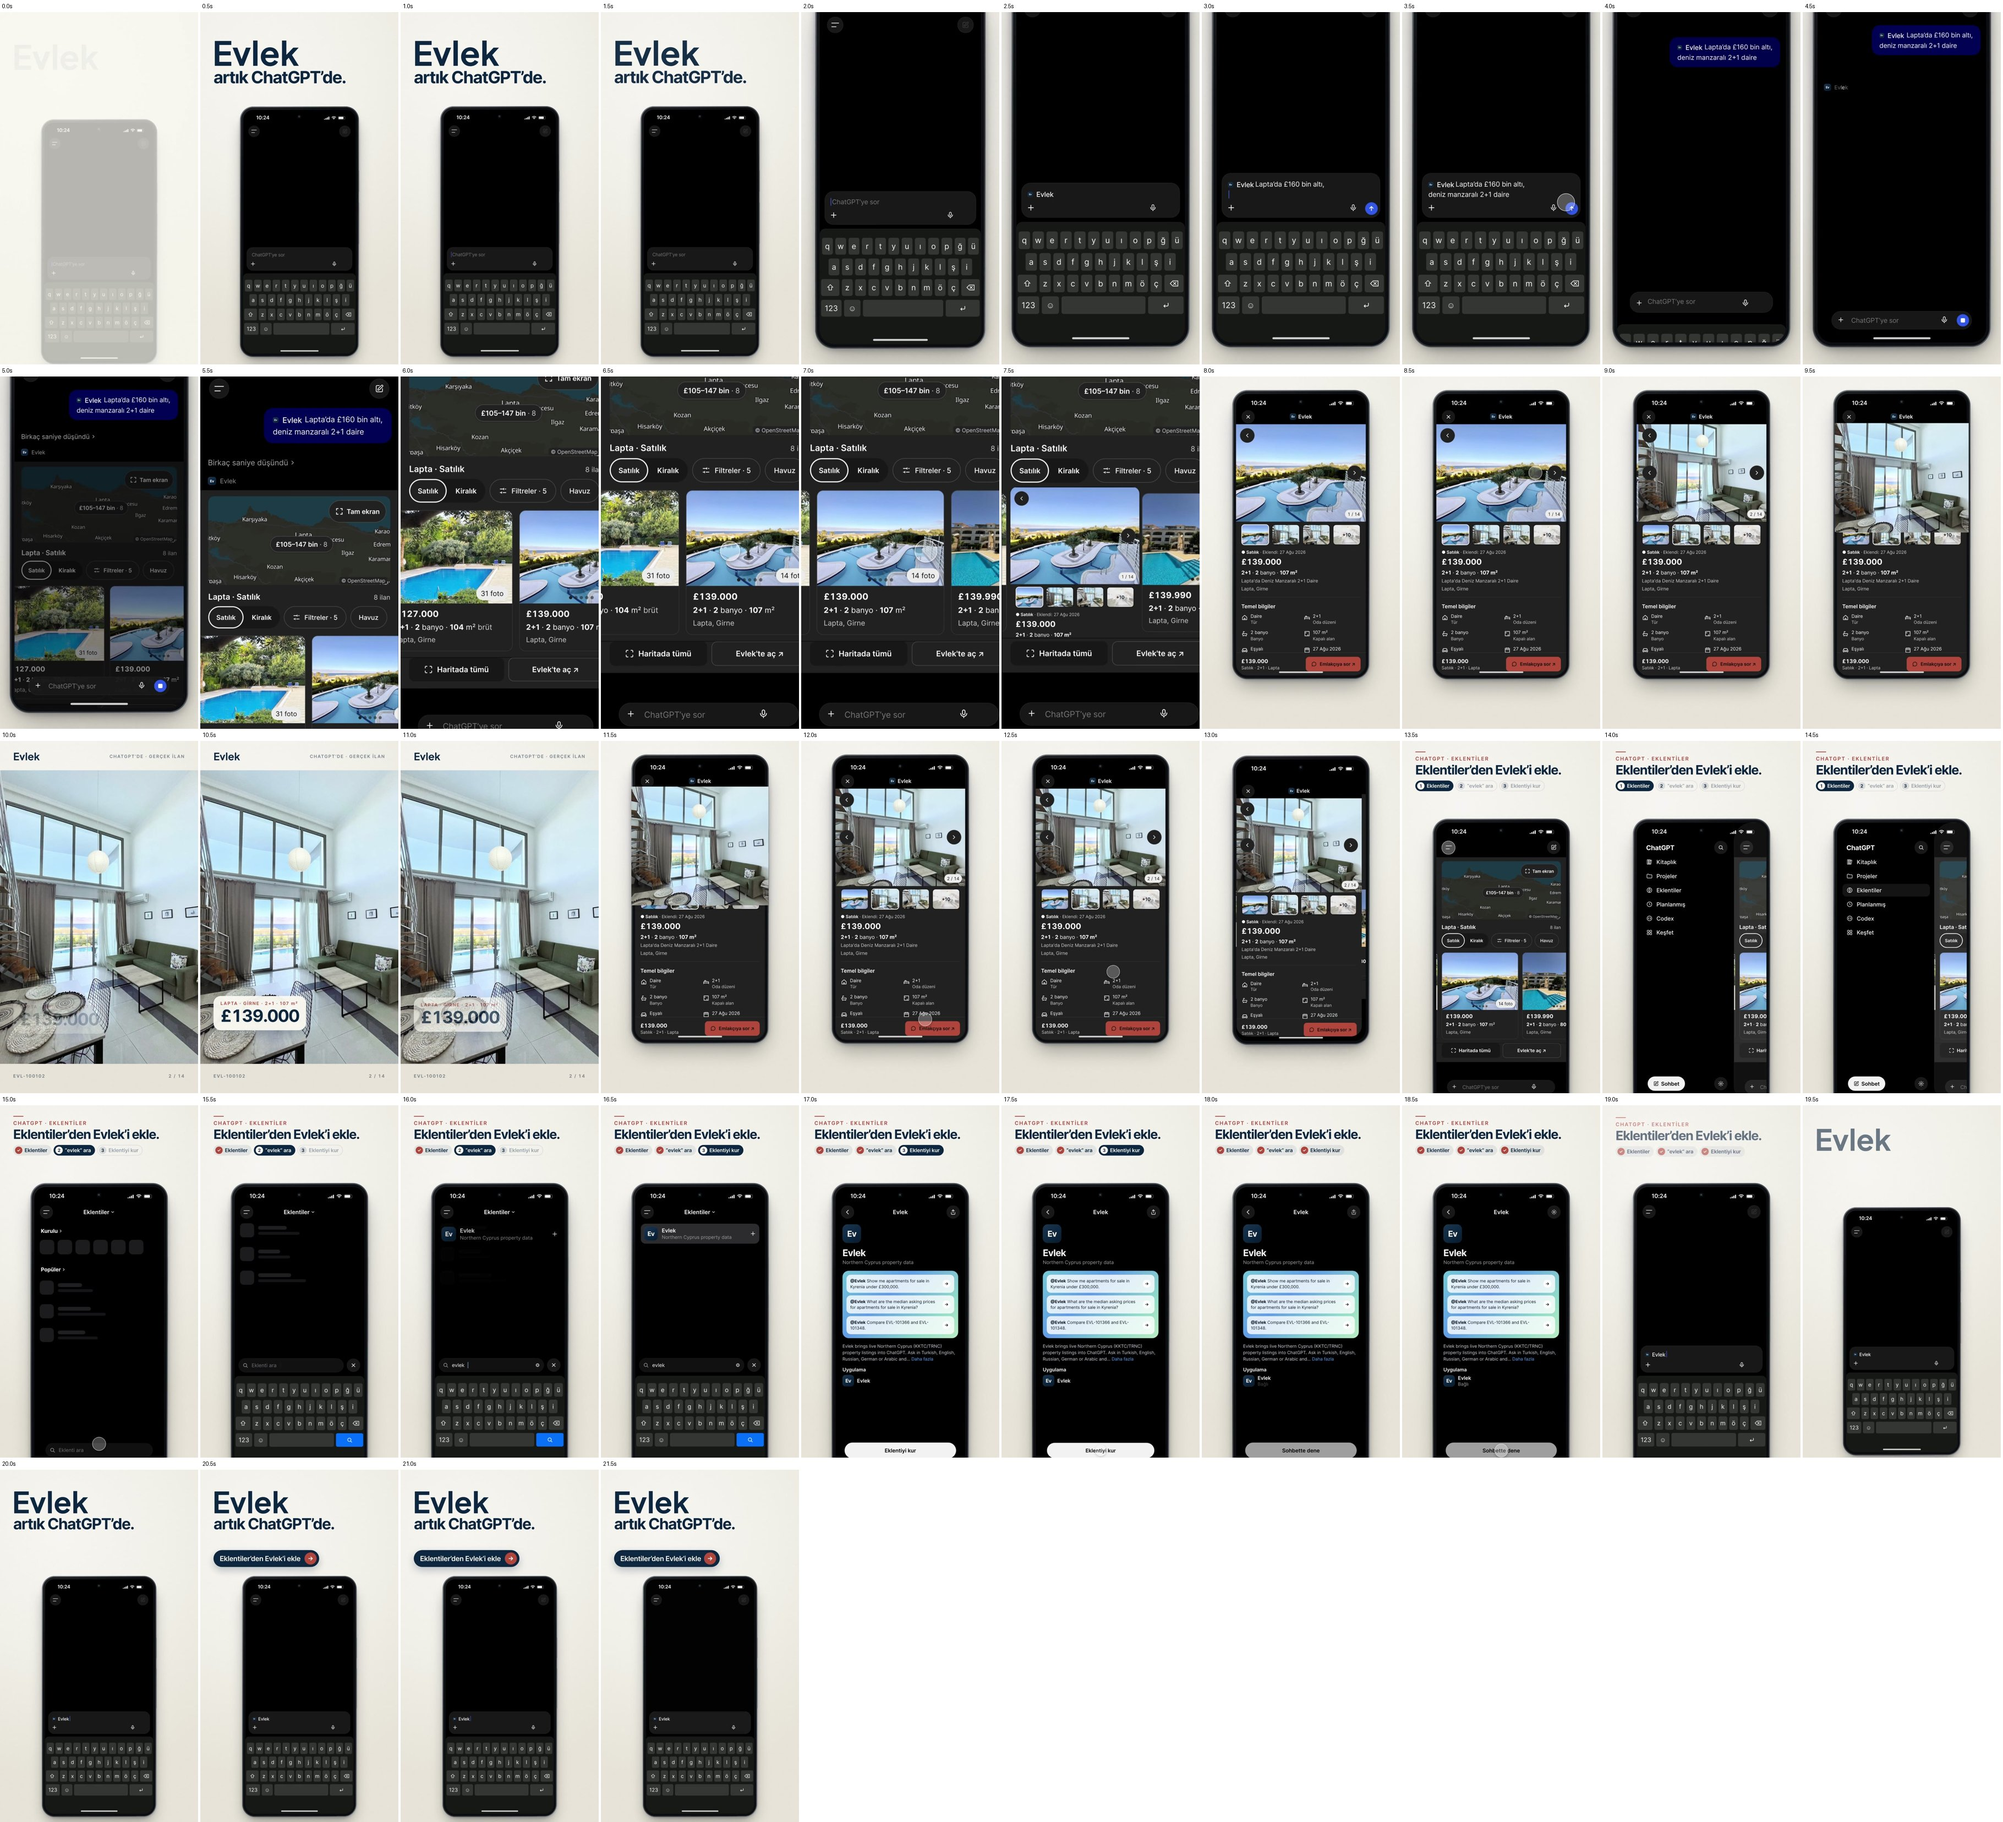
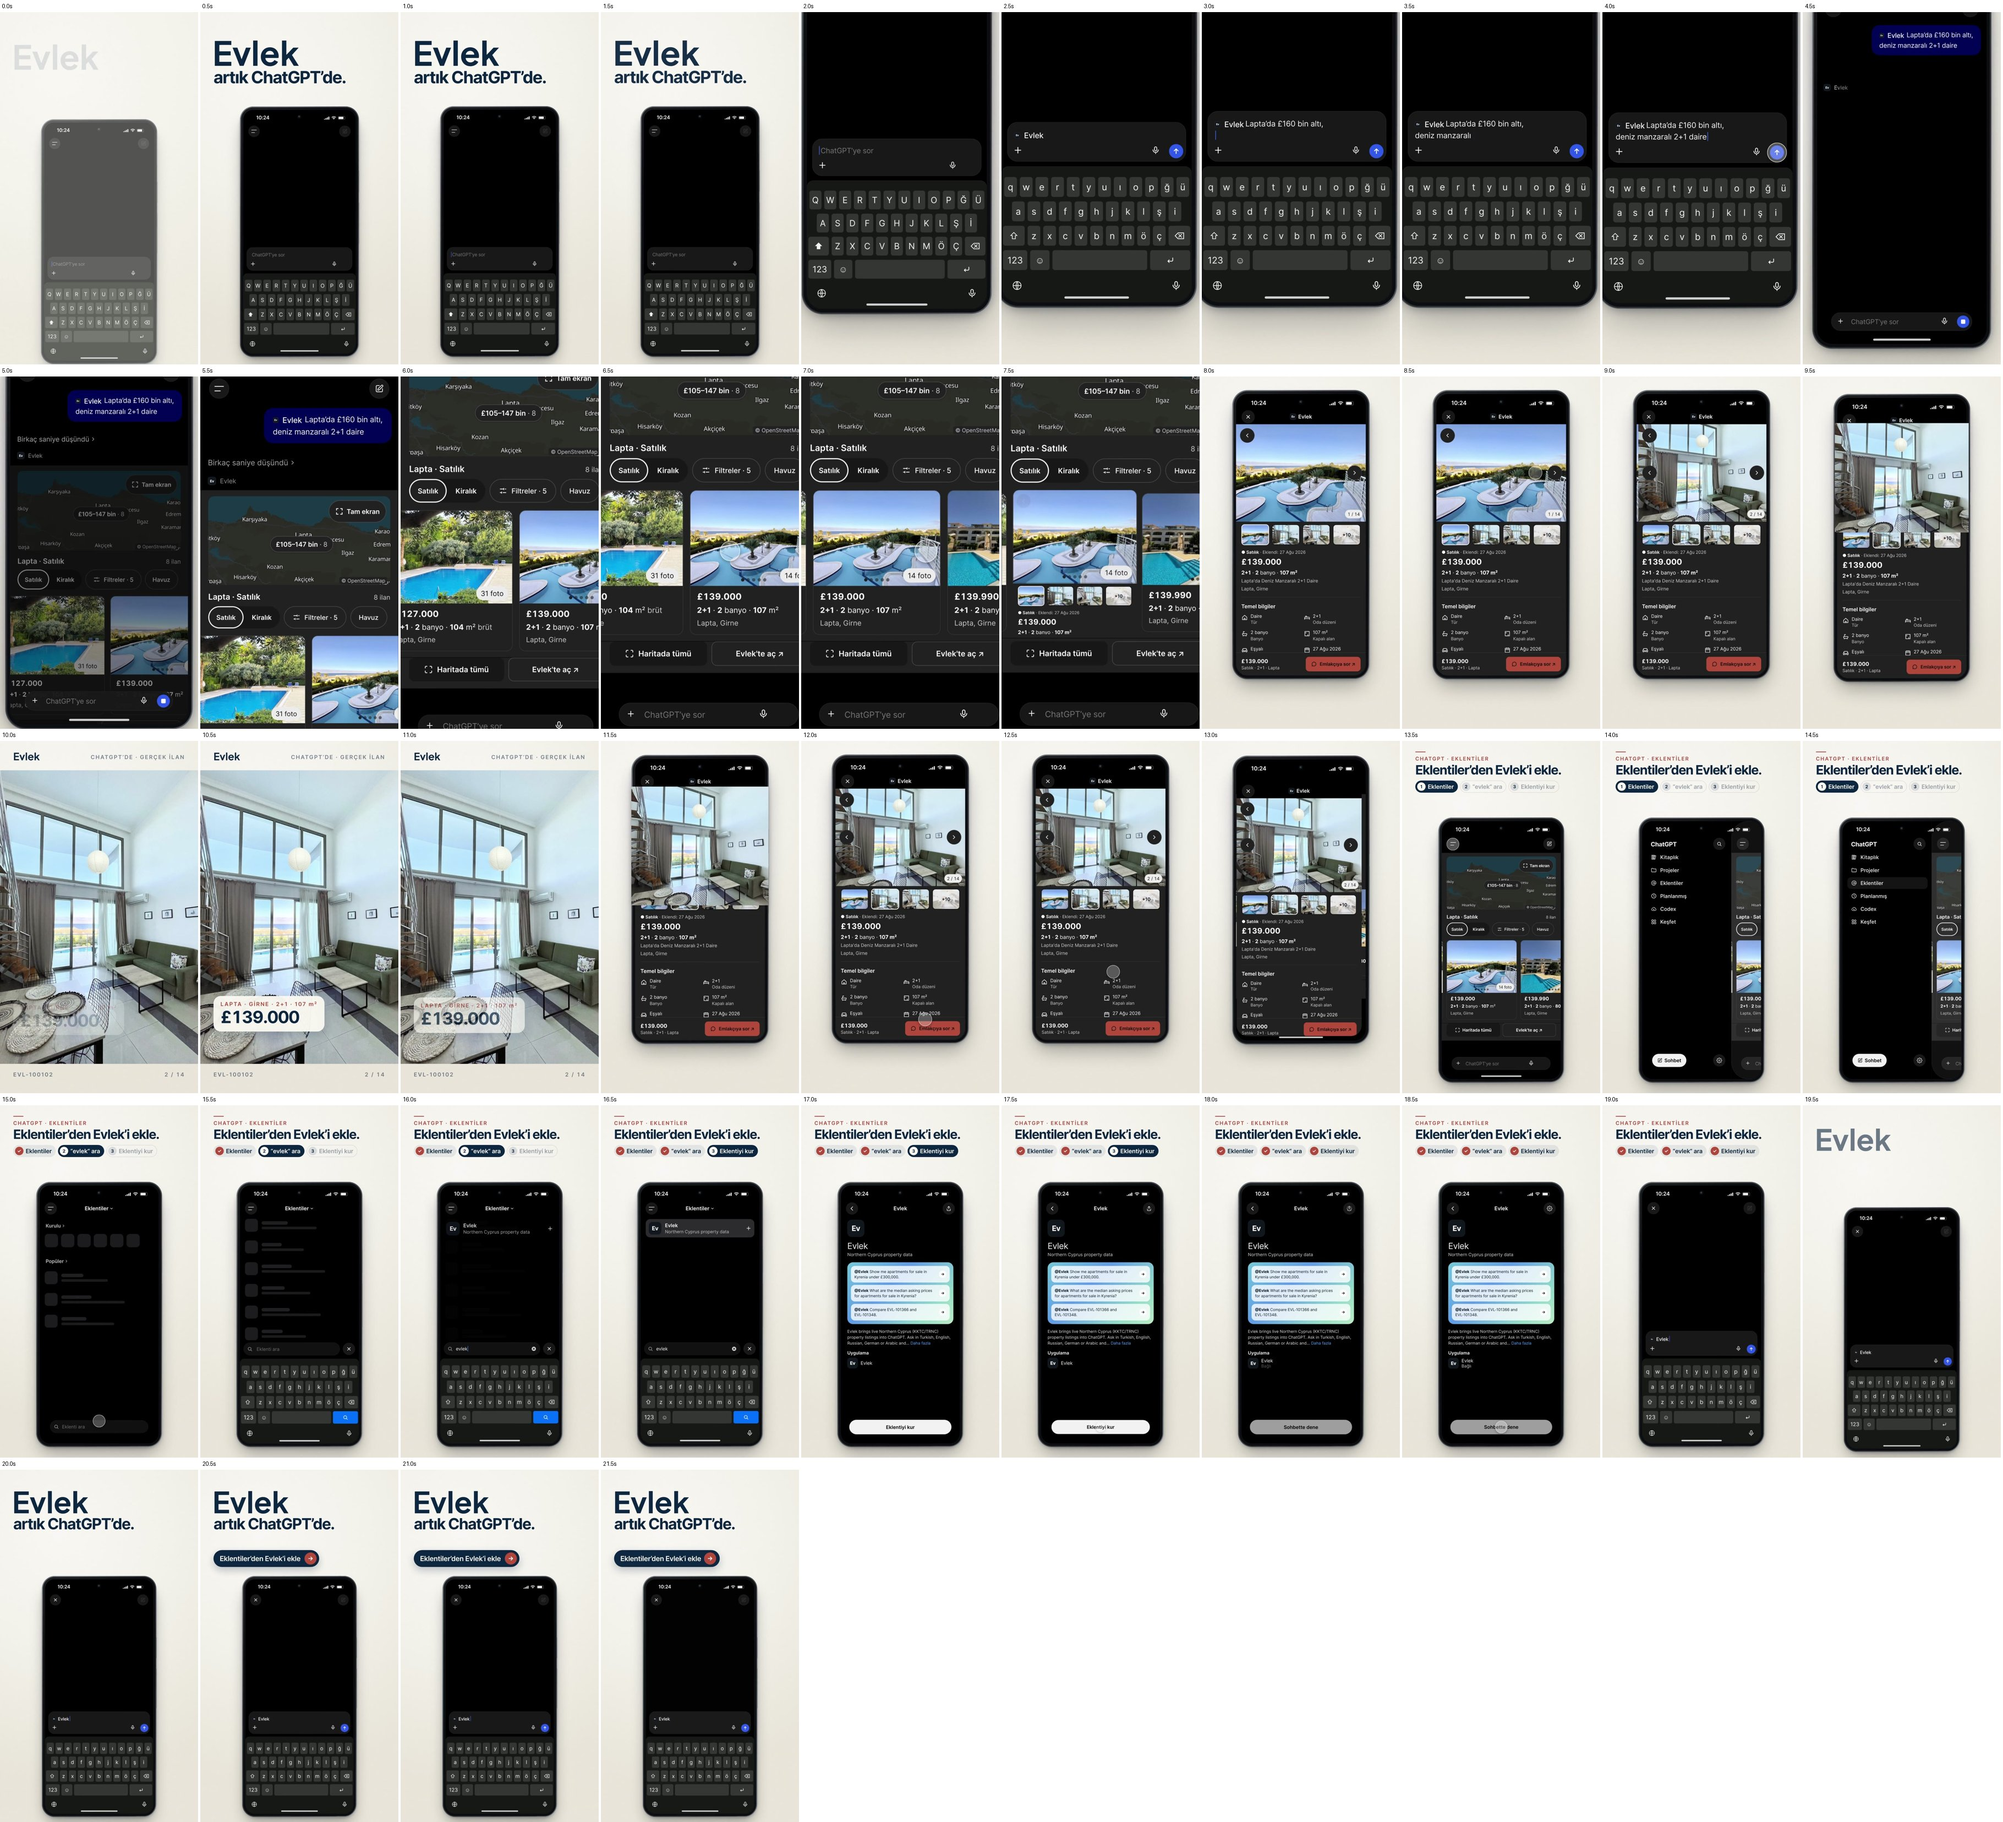
V17 cila: rapor (görüntü, doğruluk, ses testleri) ve 360 px ızgara
Claude-Session: https://claude.ai/code/session_01Y2vpGX7VqE9ipTVDuDuA9C

diff --git a/evlek-chatgpt/docs/v17/FINAL-RAPOR.md b/evlek-chatgpt/docs/v17/FINAL-RAPOR.md
@@ -40,21 +40,90 @@ Kurulun önerip uygulanmayanlar:
 | 13,0–19,0 | "Eklentiler'den Evlek'i ekle." · menü → Eklentiler → "evlek" ara → Evlek → Eklentiyi kur → Bağlı → Sohbette dene |
 | 19,1–22,0 | "Evlek artık ChatGPT'de." · Evlek çipli yeni sohbet · CTA "Eklentiler'den Evlek'i ekle" |
 
+## Cila turu (kare kare + ses uzmanı)
+
+Marka sahibi kurguyu onayladı; sıra değişmedi. Üç bağımsız inceleme yapıldı:
+
+- **Hareket ve grafik tasarım:** 60 fps, geçişler kare kare; 12 bulgu.
+- **Ses uzmanı:** dinleyemedi; ölçüm ve kod incelemesine dayandı; 9 madde.
+- **ChatGPT iOS doğruluk denetçisi:** eklenti ekranları gerçek kayıtlarla karşılaştırıldı.
+
+**Görüntü:**
+
+- **Gönder (4,05 sn):** Metin artık her karede görünüyor. Kutudan balona tek hareketle akıyor; kamera aynı tempoda izliyor. Önceden tek karede siliniyor ve 300 px sıçrıyordu.
+- **Kart → ilan (7,53 sn) ve dönüş (13,0 sn):** Kartın gerçek fotoğrafı ilanın kahraman fotoğrafına çapraz geçiyor; basma ölçeği sürüyor. Tek karelik düzen sıçraması giderildi.
+- **Kart şeridi:** Sürükleme yumuşak başlıyor, süzülme sıfır hızla duruyor. Toplam yol ve £139.000'de duruş aynı.
+- **Salon fotoğrafı (9,45 / 11,8 sn):**
+  - Telefon fotoğrafın altından aşağı süzülüyor; yarı saydam telefon kareleri kalmadı.
+  - Galeri okları tek karede kaybolmuyor.
+  - Kalkış ve inişte kayma 0 px.
+- **Eklenti bölümü:** Telefon tam kadrajda (ölçek 0,55); düğmelerin altı Reels alt bandının üstünde.
+- **Kenar menü:** iOS eğrisiyle açılıyor.
+- **Bitiş:** Eklenti başlığı ile bitiş başlığı üst üste biniyor; yazısız kare yok.
+- **Yazma kamerası:** Yazım kutusuna daha yakın (siyah alan azaldı). "Evlek" araması sırasında kamera hafifçe yaklaşıyor; arama yazısı daha açık gri.
+- **Okunurluk:** Küçük etiketler 24 → 30 px, adım hapları 28 → 32 px.
+- **Gren:** Her 2 karede kayıyor; sabit toz gibi görünmüyor.
+
+**ChatGPT iOS doğruluğu** (gerçek kayıt `eklenti_31_5`, `13_0`, `16_5`, `28_5` ve kenar menü/arama ekran görüntüleriyle):
+
+- **Yeni sohbet:** sol üstte ×; yalnız çip varken mavi gönder düğmesi.
+- **Klavye:** küre ve mikrofon satırı; boş kutuda büyük harf.
+- **Evlek simgesi:** kayıttaki koyu zemin (#11171F).
+- **Eklentiler sayfası:**
+  - "Kurulu" ve "Popüler" gri;
+  - arama sırasında 6 satır iskelet;
+  - imleç metne bitişik;
+  - temizle simgesi kayıttaki boyutta.
+- **Evlek sayfası:** başlık normal kalınlıkta, metin renkleri kayıttaki gibi. Kimlikler satır sonunda bölünmüyor.
+- **İkonlar:** dişli, Eklentiler, Codex ve Keşfet kayıttaki biçime yaklaştırıldı.
+
+**Bilerek yapılmayanlar:**
+
+- **Dynamic Island hapı:** Telefon markasız kalıyor; iPhone'u taklit etmemek için delik kamera korundu.
+- **"Evlek MCP" ikinci satırı:** Genel kullanımda doğrulanmadı.
+- **Hareket bulanıklığı:** Render süresini yaklaşık 6 katına çıkarıyor ve metni bulanıklaştırıyor.
+
+**Ses** (`audio/film17.py` → `music17`; `film16.py` değişmedi):
+
+- **Eklenti bölümü:** 15,4–18,0 sn arasında akor yoktu ve seviye −25 LUFS'a çöküyordu.
+  - Artık D → G → Em → A → Asus4 → Bm9 → A yürüyüşü var; akor değişimleri eklenti adımlarıyla örtüşüyor.
+  - Bas kökleri ve vibrafon ostinatosu devam ediyor; bölüm seviyesi doldu.
+- **Açılış:** "Ev·lek" motifi (A4 → D5) ve kapalı hi-hat sekizlikleri.
+- **Bitiş:** filmin en yüksek anı; sonuçtan +1,8 dB, Bağlı'dan +5,1 dB.
+- **"Kur" dokunuşu:** altı doldu; telefon bandında +12,1 dB'den +2,9 dB'e indi.
+- **Bağlı:** hafif nefes var (+10,4 dB).
+- **Kuyruk:** 21,2–21,92 sn kosinüs sönüm; son 50 ms tam sıfır.
+- **Ritim:** yarım groove 120 BPM ızgarasına oturdu.
+- **EQ:** 300–320 Hz çamur kesildi (ped −6 dB, tuşlar −4 dB).
+- **Mastering:** Doğrusal kazançla −14,0 LUFS (`GAIN=1 bash audio/master.sh`). Önceki yöntem ölçüm farkı yüzünden −14,6'da kalıyordu.
+
+**Ses testi** (uzmanın eşikleri):
+
+| Test | Eşik | Sonuç | |
+|---|---|---|---|
+| Seviye / gerçek tepe | −14 ±0,3 LUFS · ≤ −1,5 dBTP | −14,0 LUFS · −3,1 dBTP | GEÇER |
+| Bitiş tepesi | sonuçtan ≥ +1,5 · Bağlı'dan ≥ +3 | +1,8 · +5,1 | GEÇER |
+| Telefon bandı | dokunuş ≤ +7 · sonuç ve bitiş ≥ +12 | dokunuş ≤ +7,2 · sonuç +20,7 · bitiş +19,8 | GEÇER |
+| Kuyruk | son 50 ms ≤ −70 dBFS | sıfır | GEÇER |
+| Mono kaybı | ≤ 1,5 dB | 1,18 dB | GEÇER |
+| Kısa süreli dip (2,4–19 sn) | ≥ I−8 | I−8,0 | SINIRDA |
+| Açılış dibi | ≥ I−5 | I−7,0 | KALIR |
+| 200–500 Hz / 2–5 kHz farkı | ≤ +7 dB | sorgu +8,8 · eklenti +8,9 | KALIR |
+
 ## Teslim (git dışı, `out/`)
 
 | Dosya | sha256 |
 |---|---|
[4 lines of base64/hex data omitted]
 | `evlek_chatgpt_V17_FINAL_kapak.png` (1,0 sn) | — |
[2 lines of base64/hex data omitted]
 
 ## Kontrol (`bash scripts/v17-qc.sh`)
 
-- **Görüntü:** 1080×1920 · 60/1 · 1320 kare · 22,000 sn · h264 yuv420p · bt709. Sessiz ve sesli dosyada video MD5 aynı (`98a125b4…`); ses `-c:v copy` ile eklendi.
+- **Görüntü:** 1080×1920 · 60/1 · 1320 kare · 22,000 sn · h264 yuv420p · bt709. Sessiz ve sesli dosyada video MD5 aynı (`d6ad438e…`); ses `-c:v copy` ile eklendi.
 - **Kesme:** siyah kare 0; sert kesme yok, büyük kare farkları akan kamera hareketleri.
-- **Ses:** −14,6 LUFS · LRA 8,5 · gerçek tepe −3,9 dBTP. Platformlar −14'e normalize ediyor; 0,6 dB fark doğrusal mastering'de tepe sınırından.
-  - Telefon bandında sonuç vuruşu +19,9 dB, Bağlı +29,3 dB, bitiş +20,4 dB; dokunuşlar +2…+12 dB. Mono kaybı 1,2 dB.
+- **Ses:** −14,0 LUFS · LRA 7,7 · gerçek tepe −3,1 dBTP (ayrıntı yukarıdaki ses testinde).
 - **Okunurluk:** 360 px ızgarada (`V17_izgara_2fps_360.jpg`) başlık, sorgu, £139.000, adım satırı ve CTA okunuyor.
 - **Ürün doğruluğu:** Sorgu, ilan değerleri ve Evlek widget/ilan pikselleri V16 denetimiyle aynı kaynaklardan; denetçi o kaynaklarda uyumsuzluk bulmadı.
   - Bu sürümdeki eklenti ekranları V15'ten gelir: kenar menü, Eklentiler, arama, Evlek sayfası, Bağlı.
@@ -80,7 +149,7 @@ Kurulun önerip uygulanmayanlar:
    ```
 3. Mastering:
    ```bash
-   LRA=20 bash audio/master.sh out/audio/v17_raw.wav out/audio/v17_master_48k.wav
+   GAIN=1 bash audio/master.sh out/audio/v17_raw.wav out/audio/v17_master_48k.wav
    ```
 4. Mux ve kontrol:
    ```bash
